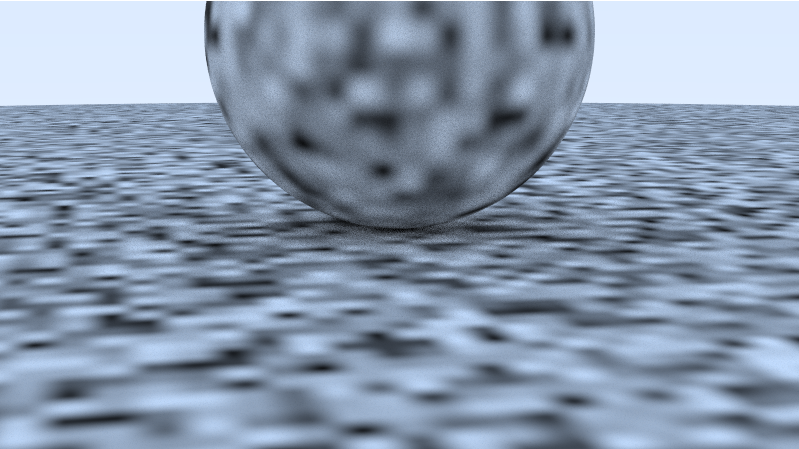
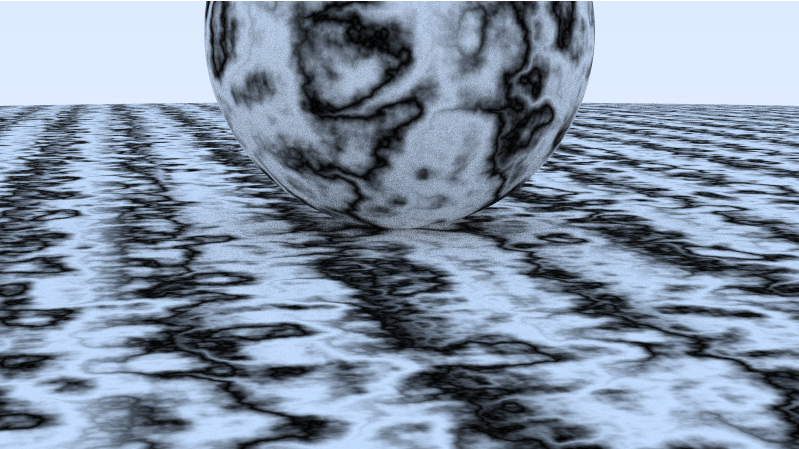
noise_textures

diff --git a/perlin.go b/perlin.go
@@ -7,7 +7,7 @@ import (
 
 type perlin struct {
 	pointCount int
-	ranFloat   []float64
+	ranVec     []Vec3
 	permX      []int
 	permY      []int
 	permZ      []int
@@ -17,9 +17,9 @@ func newPerlin() perlin {
 	var p perlin
 	p.pointCount = 256
 
-	p.ranFloat = make([]float64, 256)
+	p.ranVec = make([]Vec3, 256)
 	for i := 0; i < p.pointCount; i++ {
-		p.ranFloat[i] = rand.Float64()
+		p.ranVec[i] = Vec3{rand.Float64()*2 - 1, rand.Float64()*2 - 1, rand.Float64()*2 - 1}.Normalize()
 	}
 
 	p.permX = p.perlinGeneratePerm()
@@ -30,11 +30,6 @@ func newPerlin() perlin {
 }
 
 func (p perlin) noise(point Point3) float64 {
-	// i := int(4.0*point.X()) & 255
-	// j := int(4.0*point.Y()) & 255
-	// k := int(4.0*point.Z()) & 255
-
-	// return p.ranFloat[p.permX[i]^p.permY[j]^p.permZ[k]]
 
 	u := point.X() - math.Floor(point.X())
 	v := point.Y() - math.Floor(point.Y())
@@ -47,20 +42,21 @@ func (p perlin) noise(point Point3) float64 {
 	j := int(math.Floor(point.Y()))
 	k := int(math.Floor(point.Z()))
 
-	c := [2][2][2]float64{
-		{{0.0, 0.0}, {0.0, 0.0}},
-		{{0.0, 0.0}, {0.0, 0.0}},
-	}
+	var c [2][2][2]Vec3
+	// c := [2][2][2]Vec3{
+	// 	{{Vec3{0.0, 0.0}, 0.0}, {0.0, 0.0}},
+	// 	{{0.0, 0.0}, {0.0, 0.0}},
+	// }
 
 	for di := 0; di < 2; di++ {
 		for dj := 0; dj < 2; dj++ {
 			for dk := 0; dk < 2; dk++ {
-				c[di][dj][dk] = p.ranFloat[p.permX[(i+di)&255]^p.permY[(j+dj)&255]^p.permZ[(k+dk)&255]]
+				c[di][dj][dk] = p.ranVec[p.permX[(i+di)&255]^p.permY[(j+dj)&255]^p.permZ[(k+dk)&255]]
 			}
 		}
 	}
 
-	return trilinearInterp(c, u, v, w)
+	return perlinInterp(c, u, v, w)
 }
 
 func (p perlin) perlinGeneratePerm() []int {
@@ -75,6 +71,20 @@ func (p perlin) perlinGeneratePerm() []int {
 	return points
 }
 
+func (p perlin) turb(point Point3, depth int) float64 {
+	accum := 0.0
+	tempPoint := point
+	weight := 1.0
+
+	for i := 0; i < depth; i++ {
+		accum += weight * p.noise(tempPoint)
+		weight *= 0.5
+		tempPoint = tempPoint.Mult(2.0)
+	}
+
+	return math.Abs(accum)
+}
+
 func permute(p []int, n int) {
 	for i := n - 1; i > 0; i-- {
 		target := rand.Intn(i + 1)
@@ -82,14 +92,20 @@ func permute(p []int, n int) {
 	}
 }
 
-func trilinearInterp(c [2][2][2]float64, u, v, w float64) float64 {
+func perlinInterp(c [2][2][2]Vec3, u, v, w float64) float64 {
+
+	uu := u * u * (3 - 2*u)
+	vv := v * v * (3 - 2*v)
+	ww := w * w * (3 - 2*w)
 	accum := 0.0
+
 	for i := 0; i < 2; i++ {
 		for j := 0; j < 2; j++ {
 			for k := 0; k < 2; k++ {
-				accum += (float64(i)*u + (1-float64(i))*(1-u)) *
-					(float64(j)*v + (1-float64(j))*(1-v)) *
-					(float64(k)*w + (1-float64(k))*(1-w)) * c[i][j][k]
+				weightV := Vec3{u - float64(i), v - float64(j), w - float64(k)}
+				accum += (float64(i)*uu + (1-float64(i))*(1-uu)) *
+					(float64(j)*vv + (1-float64(j))*(1-vv)) *
+					(float64(k)*ww + (1-float64(k))*(1-ww)) * c[i][j][k].Dot(weightV)
 			}
 		}
 	}

diff --git a/texture.go b/texture.go
@@ -34,6 +34,5 @@ type noiseTexture struct {
 }
 
 func (s noiseTexture) value(u float64, v float64, p Vec3) Color3 {
-
-	return Color3{1, 1, 1}.Mult(s.noise.noise(p.Mult(s.scale)))
+	return Color3{1, 1, 1}.Mult(0.5).Mult(1 + math.Sin(p.Z()*s.scale+10*s.noise.turb(p, 7)))
 }
